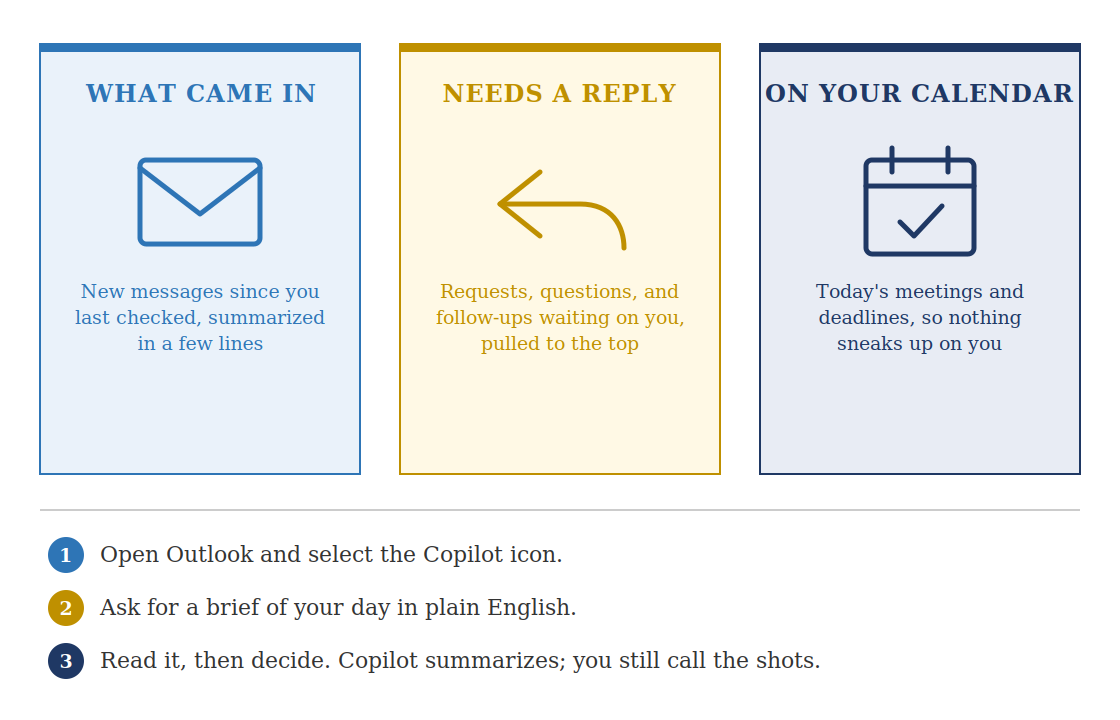
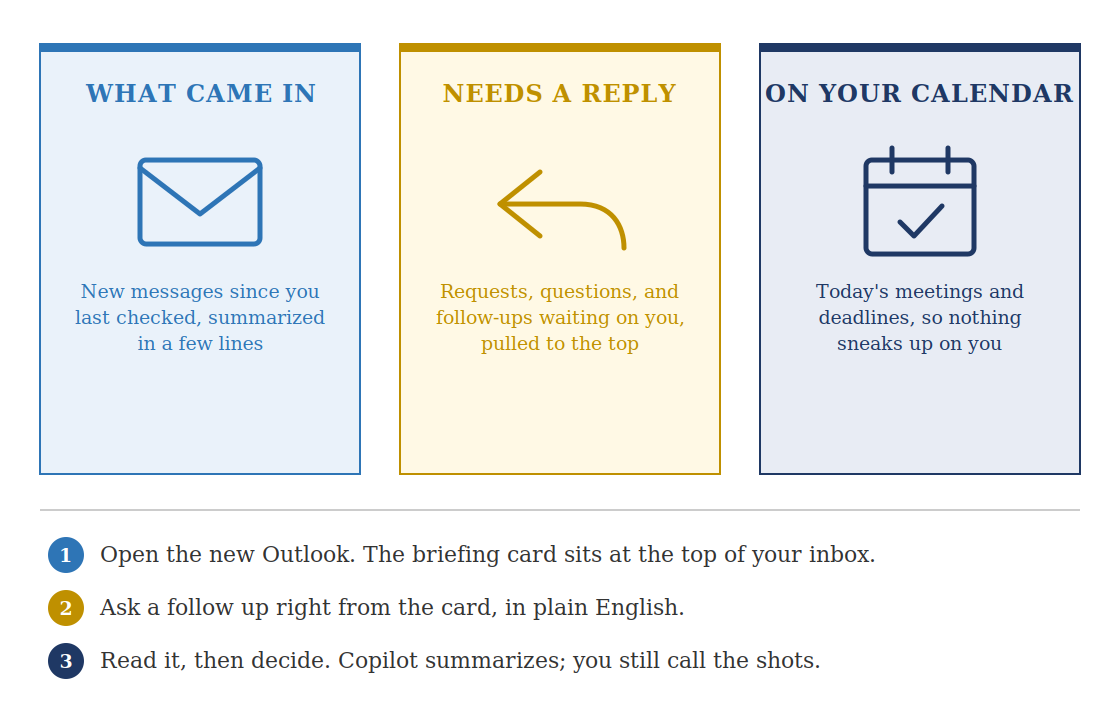
Add files via upload

Changed region(s): [[0.1562, 0.7333, 0.7812, 0.7944], [0.125, 0.825, 0.625, 0.8556]]

diff --git a/tech-minute/issue-14.html b/tech-minute/issue-14.html
@@ -3,7 +3,7 @@
 <head>
 <meta charset="UTF-8">
 <meta name="viewport" content="width=device-width, initial-scale=1.0">
-<title>CFS Tech Minute | Issue #14: Let Copilot brief you before you open your inbox</title>
+<title>CFS Tech Minute | Issue #14: Meet your morning briefing in Outlook</title>
 <style>
   body { margin: 0; background: #F5F5F5; font-family: Garamond, 'Times New Roman', serif; color: #333333; }
   .page { max-width: 680px; margin: 0 auto; padding: 24px 12px 48px 12px; }
@@ -37,7 +37,7 @@
 
   <div class="leadin">
     Good morning CFS Family,<br><br>
-    Our <b>Microsoft Copilot &amp; AI Tools</b> training kicks off this Thursday, September 10 at 11:00 AM on Teams. To get you warmed up, this week's tip previews one of the features we'll demo live: Copilot's morning brief in Outlook.
+    Our <b>Microsoft Copilot &amp; AI Tools</b> training kicks off this Thursday, September 10 at 11:00 AM on Teams. To get you warmed up, this week's tip previews one of the features we'll demo live, and it's one every member of the CFS family already has: &ldquo;Your morning briefing&rdquo; in Outlook.
   </div>
 
   <div class="card">
@@ -50,38 +50,38 @@
 
     <div class="label">YOUR DAY, SUMMARIZED BEFORE YOU OPEN A SINGLE EMAIL</div>
     <div class="body-copy">
-      If you have a Microsoft 365 Copilot license, Outlook can start your morning with a short brief: what came in overnight, which messages look like they need a reply from you, and what's on your calendar today. Copilot reads your own mailbox and calendar (nothing anyone else can see) and pulls the important pieces to the top.
+      Open the new Outlook and look at the very top of your inbox, above your newest message. That card labeled <b>Your morning briefing</b> is Copilot's summary of your day: what came in overnight, which messages look like they need a reply from you, and what's on your calendar today. Copilot reads your own mailbox and calendar (nothing anyone else can see) and pulls the important pieces to the top. You don't need a Copilot license to see it. It's there for everyone.
       <br><br>
       Think of it as the ten minutes of inbox triage you already do every morning, finished before your coffee is poured. You still read the emails that matter. You just don't have to hunt for them first.
     </div>
 
     <div class="illustration">
-      <img src="issue-14-illustration.png" alt="Copilot's morning brief covers what came in, what needs a reply, and what's on your calendar. Open Outlook and select the Copilot icon, ask for a brief of your day in plain English, then read it and decide for yourself.">
+      <img src="issue-14-illustration.png" alt="Your morning briefing in Outlook covers what came in, what needs a reply, and what's on your calendar. Open the new Outlook and find the card at the top of your inbox, ask a follow up right from the card, then read it and decide for yourself.">
     </div>
 
-    <div class="label">HOW TO TRY IT</div>
+    <div class="label">HOW TO USE IT</div>
     <div class="body-copy">
       Three steps, about thirty seconds:
       <ol class="steps">
-        <li><b>Open Outlook</b> and select the <b>Copilot</b> icon in the ribbon at the top of the window.</li>
-        <li><b>Ask in plain English:</b> "Give me a brief of my day. What needs my attention in email, and what's on my calendar?"</li>
-        <li><b>Read it, then decide.</b> Click into anything Copilot flags. It summarizes; you still call the shots (and, as we covered two weeks ago, it can be wrong, so check before you act).</li>
+        <li><b>Open the new Outlook</b> (desktop or web) and find the <b>Your morning briefing</b> card at the top of your inbox. If it's collapsed, click it to expand.</li>
+        <li><b>Ask a follow up right from the card:</b> "What needs a decision from me today?" or "Draft a reply to the most urgent one." It's a conversation, not just a summary.</li>
+        <li><b>Read it, then decide.</b> Click into anything Copilot flags. It summarizes; you still call the shots, so check the original before you act.</li>
       </ol>
-      <b>No Copilot license?</b> Come Thursday anyway. We'll show what the licensed features do, what Copilot Chat in Teams can do for everyone, and how to request a license if it would give you time back. Session 1 is hands on, so join from a computer with Teams open.
+      <b>Don't see the card?</b> You may still be on classic Outlook. Look for the <b>Try the new Outlook</b> toggle in the top right, or check Outlook on the web at outlook.office.com. We'll walk through it live on Thursday, along with what Copilot can do for everyone versus what needs a license. Session 1 is hands on, so join from a computer with Teams open.
       <a href="https://jnoriega-cfs.github.io/cfs-intranet-tools/it-help.html">Join Session 1 from the IT Help and Resources page.</a>
     </div>
 
     <div class="protip">
       <div class="edge"></div>
       <div class="inner">
-        <b>Pro tip:</b> Last week's rule still applies, and the morning brief makes it easy. You don't type anything into Copilot to get it. It works from what's already in your CFS mailbox and calendar, stays inside our Microsoft 365 environment, and is never used to train Microsoft's models.
+        <b>Pro tip:</b> Last week's rule still applies, and the morning briefing makes it easy. You don't type anything into Copilot to get it. It works from what's already in your CFS mailbox and calendar, stays inside our Microsoft 365 environment, and is never used to train Microsoft's models.
       </div>
     </div>
 
     <div class="aibox">
       <div class="edge"></div>
       <div class="inner">
-        <b>Try this with Copilot in Outlook:</b> &ldquo;Summarize what I missed in email since yesterday and list anything that needs a reply from me.&rdquo;
+        <b>Try this from your morning briefing:</b> &ldquo;What needs a decision from me today?&rdquo;
       </div>
     </div>
 
